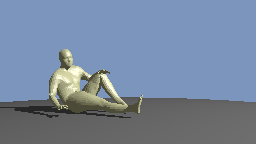
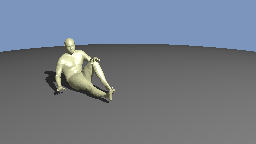
change perspective

diff --git a/HumanShape.py b/HumanShape.py
@@ -28,7 +28,7 @@ for i in range(3):
     tranformation_matrix[i, 2] = z_dir[i]
     tranformation_matrix[i, 3] = model_pos[i]
 
-deg_z = 60
+deg_z = 75
 theta_z = deg_z*np.pi/180
 t_z = np.zeros((4,4))
 t_z[0,0] = np.cos(theta_z)
@@ -70,11 +70,11 @@ scene = Scene(
 ])
 
 lights = [
-    PointLight(vec([12,10,10]), vec([300,300,300])),
+    PointLight(vec([12,10,7]), vec([300,300,300])),
     AmbientLight(0.1),
 ]
 
-camera = Camera(vec([0,0,5]), target=vec([0,0,0]), vfov=25, aspect=16/9)
+camera = Camera(vec([3,1.2,5]), target=vec([0,-0.4,0]), vfov=25, aspect=16/9)
 
 render(camera, scene, lights)
 
